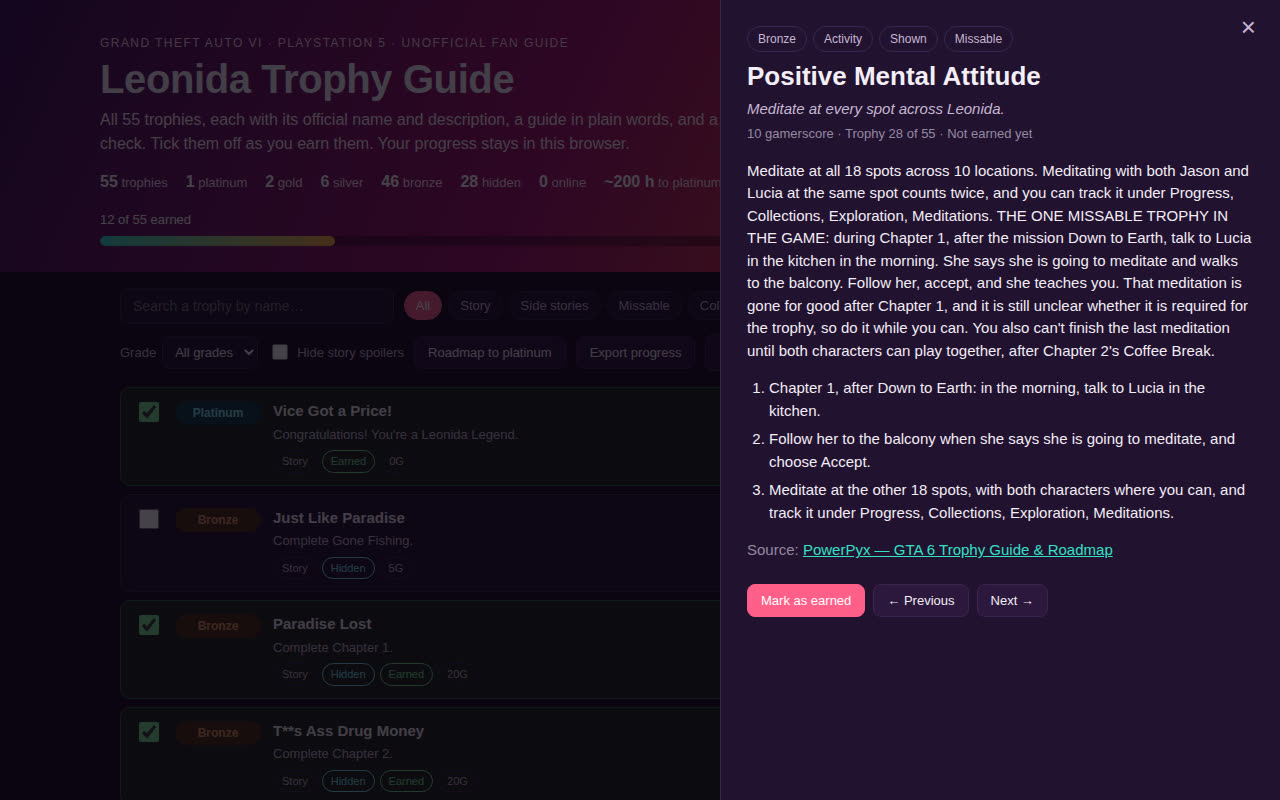
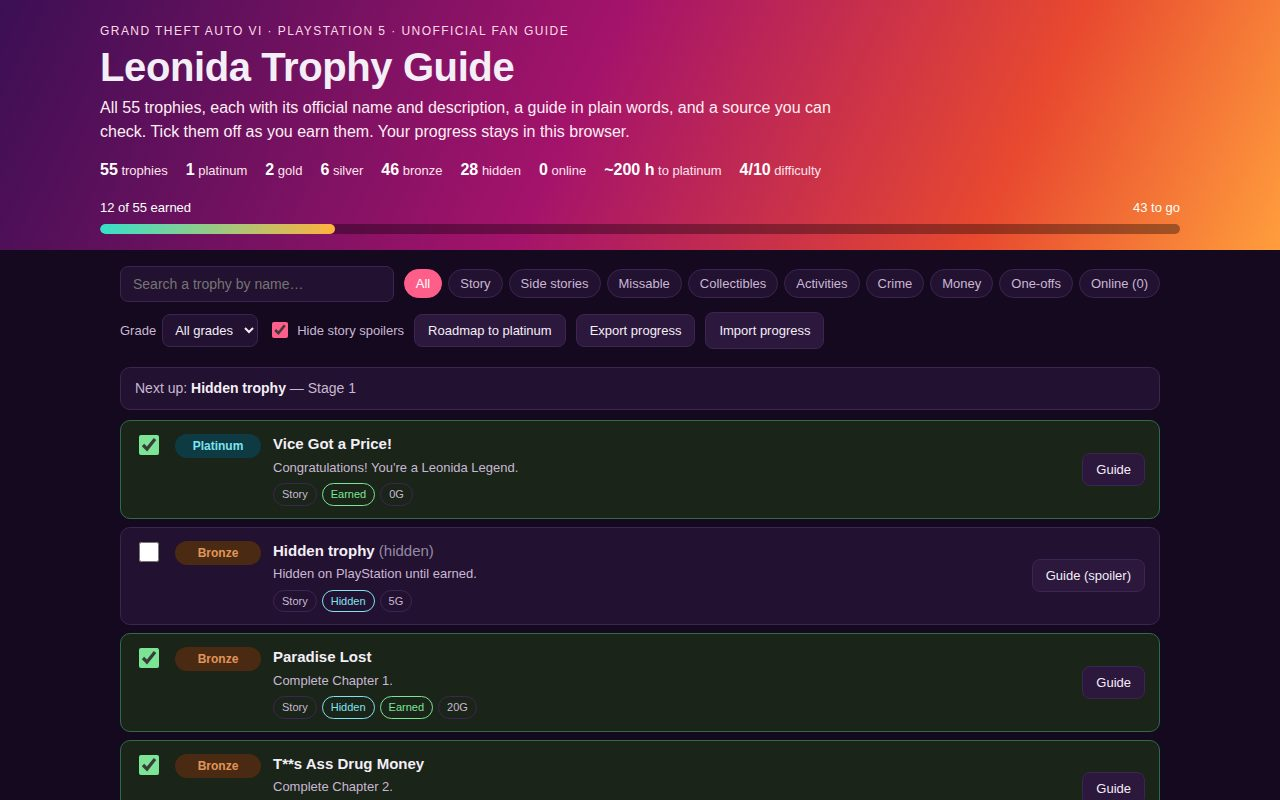
Fix audit findings: identical seeded progress, citations, targets, Next up, 6-stage roadmap, steps, roadmap split
- Seed the same 12 earned trophies in every shot; all four shots show
  12 of 55 earned (roadmap part 2 shows the stage counts 0/10 and 1/12,
  which sum with part 1 to the same 12).
- Citations: story trophies + platinum cite Exophase (official-list
  source), the rest keep PowerPyx for the how-to steps.
- Target counters on 22 countable trophies, rendered 0/N in the detail
  pane (visible for Positive Mental Attitude: 0/18 spots).
- Next up strip on the checklist (first unearned trophy in roadmap
  order, with its stage).
- Roadmap note rewritten to the 6 stages with per-stage timings.
- Numbered steps added to 10 prose-only guides (29 of 55 now stepped).
- Cover is now the checklist-with-guide-open view; plain checklist is
  shot 2.
- Hidden flags re-verified 28/28 against thegta6guide/Exophase; no
  changes needed.
- Roadmap split across shots 3-4: all six stage cards do not fit one
  1280px frame (measured ~1450px). Part 1 (1280x1155) shows stages 1-4
  with the missable callout; part 2 (1280x800, #stage-5 deep link)
  shows stages 5-6 plus the roadmap note. The standalone
  missable-filter shot is dropped; the missable trophy is still shown
  in shot 1 (guide open, Missable flag) and in the roadmap callout.
- Roadmap stages are now 2-column on wide screens with denser chips;
  stage cards carry #stage-N ids for deep-linking.

diff --git a/app/style.css b/app/style.css
@@ -30,7 +30,7 @@ body {
 
 .hero {
   background: linear-gradient(115deg, #3b0f54 0%, #a4136b 45%, #e8492f 78%, #ff9e3d 100%);
-  padding: 34px 20px 26px;
+  padding: 22px 20px 16px;
 }
 
 .hero-inner { max-width: 1080px; margin: 0 auto; }
@@ -96,7 +96,7 @@ button:hover, .import-btn:hover { border-color: var(--accent); }
 .import-btn input { position: absolute; width: 1px; height: 1px; opacity: 0; overflow: hidden; }
 
 .roadmap {
-  margin: 14px 0 6px; padding: 20px; border: 1px solid var(--line);
+  margin: 14px 0 6px; padding: 16px; border: 1px solid var(--line);
   border-radius: 12px; background: var(--panel);
 }
 .roadmap h2 { margin: 0 0 8px; font-size: 22px; }
@@ -110,10 +110,11 @@ button:hover, .import-btn:hover { border-color: var(--accent); }
 .missable-callout p { margin: 0; font-size: 14px; color: var(--ink-dim); }
 .missable-callout strong { color: var(--ink); }
 
-.stages { list-style: none; margin: 0; padding: 0; display: grid; gap: 10px; }
+.stages { list-style: none; margin: 0; padding: 0; display: grid; gap: 8px; }
+@media (min-width: 900px) { .stages { grid-template-columns: 1fr 1fr; } }
 .stages li {
   display: grid; grid-template-columns: 34px 1fr; gap: 12px;
-  padding: 12px 14px; border: 1px solid var(--line); border-radius: 10px; background: var(--panel-2);
+  padding: 10px 12px; border: 1px solid var(--line); border-radius: 10px; background: var(--panel-2);
 }
 .stage-num {
   width: 34px; height: 34px; border-radius: 50%; background: var(--accent);
@@ -122,12 +123,18 @@ button:hover, .import-btn:hover { border-color: var(--accent); }
 .stages h3 { margin: 0 0 2px; font-size: 15px; }
 .stages h3 span { color: var(--ink-faint); font-weight: 400; font-size: 13px; }
 .stages p { margin: 0 0 8px; font-size: 14px; color: var(--ink-dim); }
-.stage-trophies { display: flex; flex-wrap: wrap; gap: 5px; }
+.stage-trophies { display: flex; flex-wrap: wrap; gap: 4px; }
 .stage-trophies button {
-  padding: 3px 9px; font-size: 12px; border-radius: 999px; background: var(--bg);
+  padding: 2px 8px; font-size: 11px; border-radius: 999px; background: var(--bg);
 }
 .stage-trophies button.earned { text-decoration: line-through; opacity: 0.65; }
 .roadmap-note { margin: 12px 0 0; font-size: 13px; color: var(--ink-faint); }
+
+.next-up {
+  margin: 12px 0 0; padding: 10px 14px; border: 1px solid var(--line);
+  border-radius: 10px; background: var(--panel); font-size: 14px; color: var(--ink-dim);
+}
+.next-up strong { color: var(--ink); }
 
 .list { list-style: none; margin: 10px 0 0; padding: 0; display: grid; gap: 8px; }
 
@@ -193,6 +200,8 @@ button:hover, .import-btn:hover { border-color: var(--accent); }
 #detailName { margin: 0 0 6px; font-size: 26px; line-height: 1.15; }
 .detail-desc { margin: 0 0 4px; font-size: 15px; color: var(--ink-dim); font-style: italic; }
 .detail-meta { margin: 0 0 16px; font-size: 13px; color: var(--ink-faint); }
+.detail-target { margin: -8px 0 16px; font-size: 15px; font-weight: 700; color: var(--teal); }
+.detail-target span { color: var(--ink-faint); font-weight: 400; }
 .detail-body p { font-size: 15px; }
 .detail-body ol { padding-left: 22px; font-size: 15px; }
 .detail-body li { margin-bottom: 6px; }

diff --git a/app/index.html b/app/index.html
@@ -50,15 +50,17 @@
     <label class="import-btn">Import progress <input id="importFile" type="file" accept="application/json,.json"></label>
   </div>
 
+  <p id="nextUp" class="next-up" hidden></p>
+
   <section id="roadmap" class="roadmap" hidden>
     <h2>Roadmap to the platinum</h2>
-    <p class="roadmap-intro">Five chapters, about 60 to 80 hours of story, then cleanup in free-roam. There is no mission replay in GTA VI, but everything the platinum needs is still reachable after the story, so play it once and clean up afterwards. Cheats disable trophies and saving, so leave them alone. Keep a manual save at the start and end of each chapter: 15 manual slots plus one autosave.</p>
+    <p class="roadmap-intro">Five chapters, about 60 to 80 hours of story, then cleanup in free-roam. There is no mission replay in GTA VI, but everything the platinum needs is still reachable after the story, so play it once and clean up afterwards. Cheats disable trophies and saving, so leave them alone.</p>
     <div class="missable-callout">
       <h3>One trophy can be missed</h3>
-      <p><strong>Positive Mental Attitude</strong> is the only missable trophy. During Chapter 1, after the mission Down to Earth, talk to Lucia in the kitchen in the morning. She says she is going to meditate and walks to the balcony. Follow her, accept, and she teaches you. That meditation is gone for good after Chapter 1, and it is still unclear whether it counts toward the trophy, so do it while you can. Every other trophy can be earned after the story.</p>
+      <p><strong>Positive Mental Attitude</strong> is the only missable trophy. During Chapter 1, after the mission Down to Earth, talk to Lucia in the kitchen in the morning. She says she is going to meditate and walks to the balcony. Follow her, accept, and she teaches you. That meditation is gone for good after Chapter 1, and it is still unclear whether it counts toward the trophy, so do it while you can.</p>
     </div>
     <ol class="stages" id="stages"></ol>
-    <p class="roadmap-note">Roadmap order and timings follow PowerPyx. Step 1 takes 60 to 80 hours, Step 2 about 100 hours of checklist work, Step 3 about 10 hours of cleanup.</p>
+    <p class="roadmap-note">Roadmap order and timings follow PowerPyx. Stage 1, 60–80 h; Stage 2, 10–20 h; Stage 3, ~100 h; Stages 4–6, ~10–25 h each.</p>
   </section>
 
   <p id="emptyState" class="empty" hidden></p>
@@ -78,6 +80,7 @@
     <h2 id="detailName"></h2>
     <p id="detailDesc" class="detail-desc"></p>
     <p id="detailMeta" class="detail-meta"></p>
+    <p id="detailTarget" class="detail-target" hidden></p>
     <div class="detail-body">
       <p id="detailGuide"></p>
       <ol id="detailSteps"></ol>

diff --git a/app/app.js b/app/app.js
@@ -117,7 +117,17 @@ function tagHtml(t) {
   return tags.join("");
 }
 
+function renderNextUp() {
+  const el = $("#nextUp");
+  const ordered = trophies.slice().sort((a, b) => (a.stage - b.stage) || (a.id - b.id));
+  const next = ordered.find((t) => !earned.has(t.id));
+  if (!next) { el.hidden = true; return; }
+  el.hidden = false;
+  el.innerHTML = `Next up: <strong>${displayName(next)}</strong> — Stage ${next.stage}`;
+}
+
 function renderList() {
+  renderNextUp();
   const list = filtered();
   const ul = $("#list");
   const empty = $("#emptyState");
@@ -160,6 +170,7 @@ function renderRoadmap() {
   for (const s of STAGES) {
     const ts = trophies.filter((t) => t.stage === s.n);
     const li = document.createElement("li");
+    li.id = "stage-" + s.n;
     li.innerHTML = `
       <span class="stage-num">${s.n}</span>
       <div>
@@ -224,6 +235,14 @@ function renderDetail() {
   $("#detailName").textContent = displayName(t);
   $("#detailDesc").textContent = displayDesc(t);
   $("#detailMeta").textContent = `${t.gamerscore} gamerscore · Trophy ${t.id} of 55 · ${earned.has(t.id) ? "Earned" : "Not earned yet"}`;
+  const targetEl = $("#detailTarget");
+  if (!masked && t.target) {
+    const done = earned.has(t.id) ? t.target.count : 0;
+    targetEl.hidden = false;
+    targetEl.innerHTML = `${done}/${t.target.count} <span>${t.target.unit}</span>`;
+  } else {
+    targetEl.hidden = true;
+  }
   if (masked) {
     $("#detailGuide").textContent = "This is a hidden story trophy. Turn off “Hide story spoilers” above to read its guide.";
     $("#detailSteps").innerHTML = "";
@@ -307,6 +326,12 @@ async function init() {
   // show it without scrolling: the hero and toolbar stay visible and the
   // roadmap starts right below them. Clicking the button still scrolls to it.
   if (openRoadmap) setRoadmapVisible(true, false);
+  // A #stage-N deep link has to wait until the stages exist too: the browser
+  // cannot jump to an element the fetch has not rendered yet.
+  if (location.hash) {
+    const target = document.getElementById(location.hash.slice(1));
+    if (target) target.scrollIntoView();
+  }
 
   $("#search").addEventListener("input", (ev) => { query = ev.target.value; renderList(); });
   $("#grade").addEventListener("change", (ev) => { filterGrade = ev.target.value; renderList(); });

diff --git a/README.md b/README.md
@@ -70,8 +70,12 @@ plainly instead of guessing.
 - `app/index.html`, `app/style.css`, `app/app.js` — the app.
 - `app/data/trophies.json` — the 55 trophies: official name, description, grade,
   hidden flag, kind, missable flag, roadmap stage, guide, steps, and source.
-- `screenshots/` — 4 screenshots of the app (checklist, open guide, roadmap,
-  missable filter).
+- `screenshots/` — 4 screenshots of the app (guide open over the checklist,
+  plain checklist with the Next up strip, roadmap part 1: stages 1–4,
+  roadmap part 2: stages 5–6 plus the roadmap note). The roadmap is split
+  across two shots because all six stage cards do not fit one 1280px frame;
+  the missable trophy is still shown in shot 1 (guide open, Missable flag)
+  and in the roadmap's missable callout in shot 3.
 - `main.ts` — copies `app/` and `screenshots/` to the output and writes
   `dossier.json` via the vendored make.fun library.
 - `serve.ts` — a small static server for local development.
